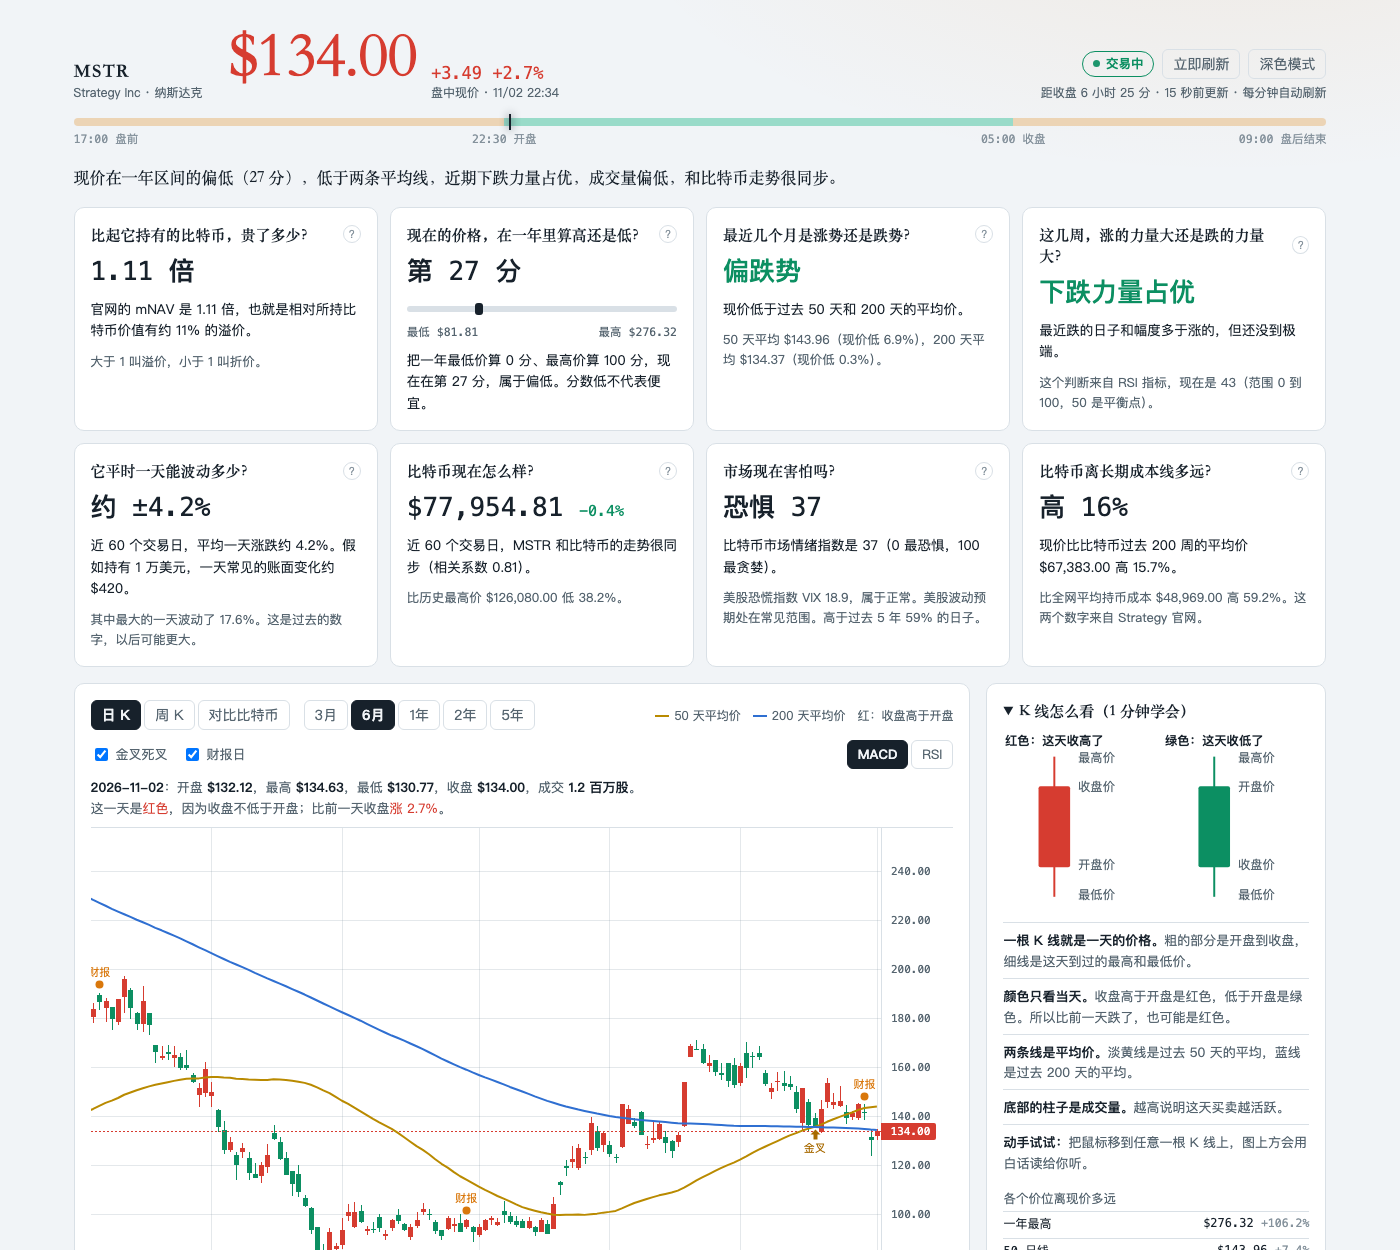
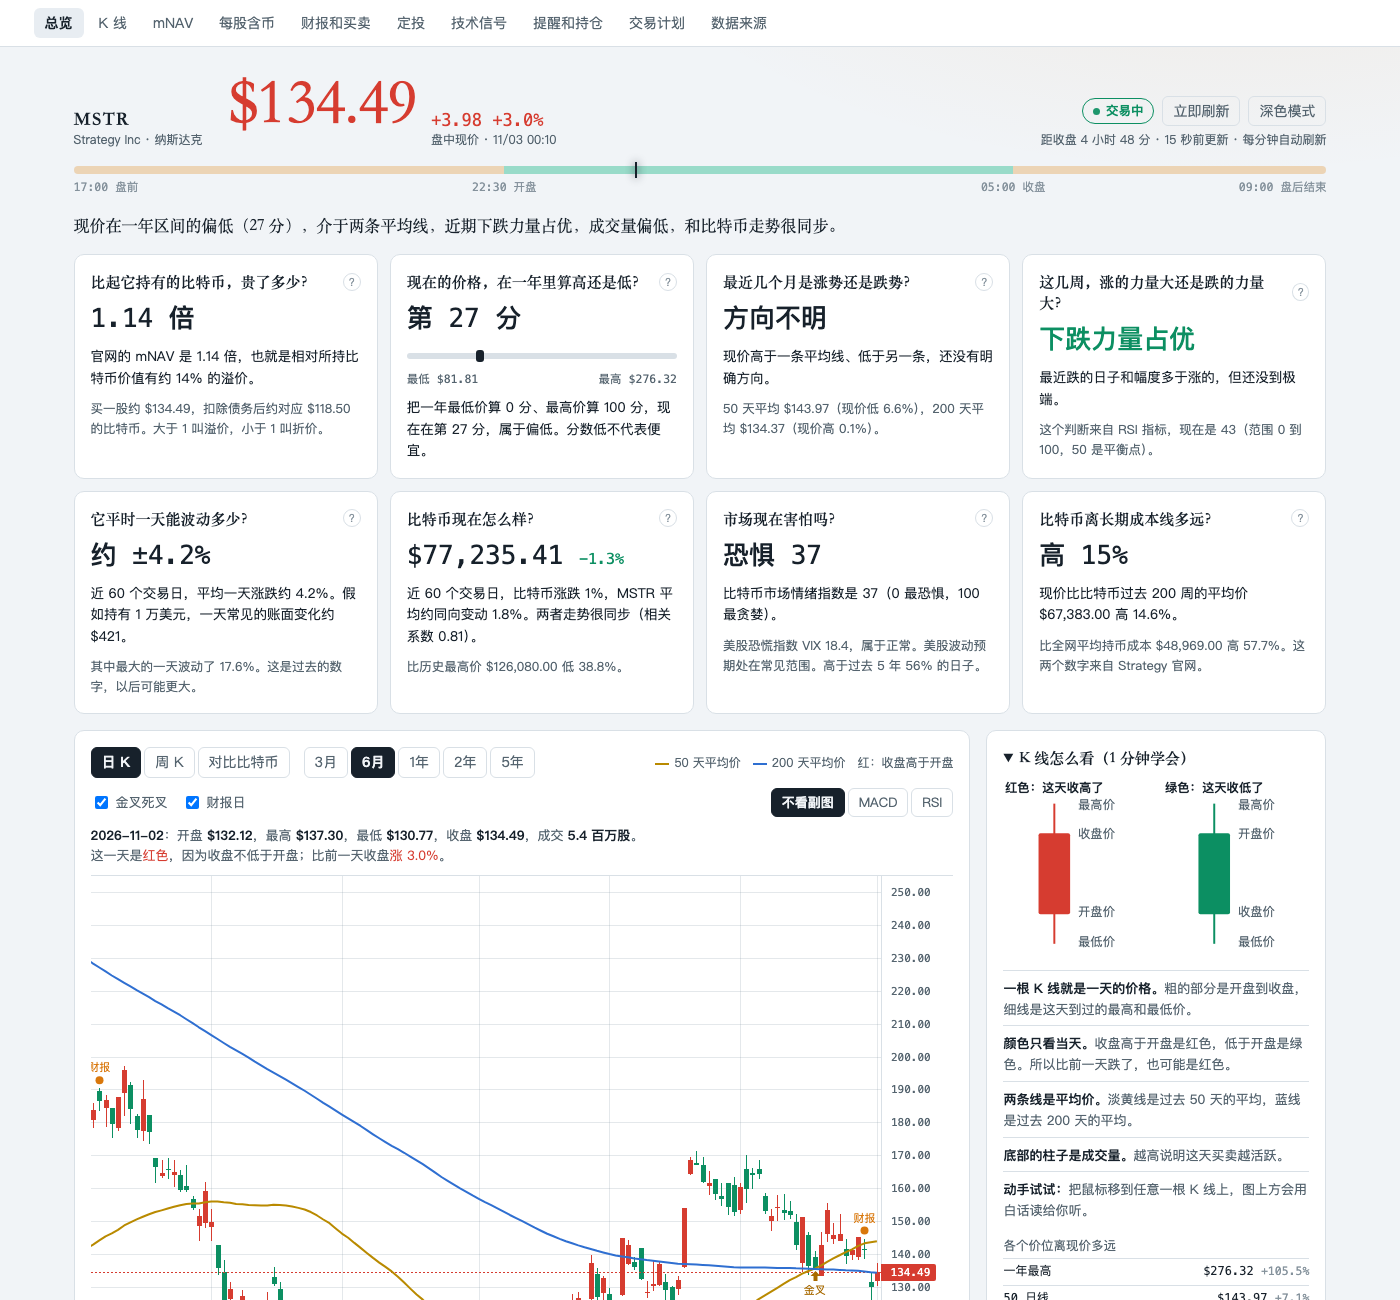
修正 mNAV 说明，加入每股含币量走势并更新截图
- 按官网说明解释 mNAV，并标出 2026 年 7 月 23 日的定义变化
- 新增每股含币量走势，以及持币和股数的变化
- 更新 README 和页面截图

diff --git a/index.html b/index.html
@@ -110,7 +110,7 @@ h2 { font: 700 15px/1.3 var(--song); letter-spacing: .04em; margin: 0; }
 .dca-top { display: flex; flex-wrap: wrap; align-items: center; gap: 8px 14px; }
 .dca-body { display: grid; grid-template-columns: 300px minmax(0, 1fr); gap: 18px; align-items: start; }
 @media (max-width: 880px) { .dca-body { grid-template-columns: minmax(0, 1fr); } }
-#dcaChart, #mnavChart { height: 280px; }
+#dcaChart, #mnavChart, #psChart { height: 280px; }
 .two { display: grid; grid-template-columns: repeat(2, minmax(0, 1fr)); gap: 16px; }
 @media (max-width: 880px) { .two { grid-template-columns: minmax(0, 1fr); } }
 .next { padding: 8px 12px; font-size: 13.5px; background: var(--panel-2); border-radius: 6px; }
@@ -339,6 +339,18 @@ footer { font-size: 12px; color: var(--faint); }
       <div><div class="legend" id="mnavLegend" style="margin:0 0 6px"></div><div id="mnavChart"></div></div>
     </div>
     <p class="hint" id="mnavNote"></p>
+  </section>
+
+  <section class="panel card">
+    <div class="head"><h2 style="color:var(--fg)">每股含币量的走势</h2><button class="q" data-term="pershare" type="button" aria-label="解释每股含币量">?</button></div>
+    <div class="dca-body">
+      <div class="card">
+        <div class="v" id="psNow">--</div><p class="say note" id="psSay">正在读取官网历史数据…</p>
+        <dl class="facts" id="psFacts"></dl>
+      </div>
+      <div><div class="legend" style="margin:0 0 6px"><span><i style="background:var(--btc)"></i>每股对应的比特币（枚）</span></div><div id="psChart"></div></div>
+    </div>
+    <p class="hint">根据 Strategy 官网的每股持币数（BPS）。“股数”用持币数 ÷ 每股持币数换算，是官网口径的调整后股数，和普通股总数不同。这里没有扣除债务。持币和增发的日期可能错开，所以会有台阶式变化。</p>
   </section>
 
   <div class="two">
@@ -787,7 +799,7 @@ function renderQuestions(d) {
   $('qBtcT').textContent = corr;
   const k = S.kpi?.btc;
   $('qBtcS').textContent = k ? `比历史最高价 ${money(k.ath)} 低 ${Math.abs(k.drawdownFromAth).toFixed(1)}%。` : '';
-  renderMood(); renderDca(); renderHistory(); renderEvents();
+  renderMood(); renderDca(); renderHistory(); renderPerShare(); renderEvents();
 
   $('sentence').textContent = `现价在一年区间的${d.pos}（${d.place.toFixed(0)} 分），${both ? '高于' : none ? '低于' : '介于'}两条平均线，近期${fw}，${d.volWord}，和比特币${d.c >= 0.6 ? '走势很同步' : d.c >= 0.3 ? '有一定同步' : '不太同步'}。`;
   renderCompany();
@@ -874,14 +886,15 @@ function renderHistory() {
   const pick = f => { const s = summarize(rows, f); return s && { ...s, field: f }; };
   if (H.mode === 'official') {
     mnavMain.setData(series('mNav')); mnavSecond.setData(series('mNavEntVal'));
-    $('mnavLegend').innerHTML = `<span><i style="background:var(--btc)"></i>现行官网 mNAV（2026 年 6 月起）</span><span><i style="background:var(--ma-long)"></i>企业价值 ÷ 持币价值（2025 年起）</span>`;
+    mnavMain.setMarkers(series('mNav').some(p => p.time === '2026-07-23') ? [{ time: '2026-07-23', position: 'aboveBar', shape: 'arrowDown', color: css('--fg'), text: '官网改定义' }] : []);
+    $('mnavLegend').innerHTML = `<span><i style="background:var(--btc)"></i>现行算法（2026 年 6 月起）</span><span><i style="background:var(--ma-long)"></i>旧算法：企业价值 ÷ 持币价值（2025 年起）</span>`;
     const a = pick('mNav'), b = pick('mNavEntVal'), live = toNum(S.kpi?.btc?.mNav);
     $('mnavNow').textContent = (live > 0 ? live : all.find(r => r.mNav != null).mNav).toFixed(2) + ' 倍';
-    $('mnavSay').textContent = b ? `官网 mNAV 现在的数字。另一条企业价值算法现在是 ${b.now.toFixed(2)} 倍，高于这段时间 ${b.share.toFixed(0)}% 的日子。` : '官网 mNAV 现在的数字。';
-    $('mnavFacts').innerHTML = (a ? stat('官网', a) : '') + (b ? stat('企业价值', b) : '');
-    $('mnavNote').textContent = '两条线都来自 Strategy 官网，但算法不同，不能直接相减。橙线大致是“股价 ÷ 每股净持币价值”，从 2026 年 6 月 15 日才有数据；蓝线是“企业价值 ÷ 持币价值”，能看到更早的走势。虚线是 1 倍，低于它表示折价。';
+    $('mnavSay').textContent = b ? `官网现行算法的数字。旧算法现在约 ${b.now.toFixed(2)} 倍，高于这段时间 ${b.share.toFixed(0)}% 的日子。` : '官网现行算法的数字。';
+    $('mnavFacts').innerHTML = (a ? stat('现行算法', a) : '') + (b ? stat('旧算法', b) : '');
+    $('mnavNote').textContent = 'Strategy 官网说明：2026 年 7 月 23 日之前的 mNAV 是另一种指标，不能和现在直接比较。橙线是现行算法（股价 ÷ 每股净持币价值），官网数据从 2026 年 6 月 15 日开始，在 7 月 23 日没有明显跳变，看起来已按新算法回算，但官网没有明确写这一点。蓝线接近旧算法（企业价值 ÷ 持币价值），能看到更早的走势。两条线不能相减。虚线是 1 倍，低于它表示折价。';
   } else {
-    mnavMain.setData(series('simple')); mnavSecond.setData([]);
+    mnavMain.setData(series('simple')); mnavSecond.setData([]); mnavMain.setMarkers([]);
     $('mnavLegend').innerHTML = `<span><i style="background:var(--btc)"></i>市值 ÷ 持币价值（我根据官网数据算的）</span>`;
     const a = pick('simple');
     $('mnavNow').textContent = a ? f2(a.now) : '--';
@@ -900,6 +913,21 @@ const segHist = (id, attr, apply) => $(id).addEventListener('click', e => {
 });
 segHist('mnavMode', 'mode', v => { H.mode = v; });
 segHist('mnavRange', 'm', v => { H.months = Number(v); });
+
+// --- Bitcoin per share ---
+const psChart = LightweightCharts.createChart($('psChart'), { ...baseOptions(), layout: { ...baseOptions().layout, attributionLogo: false }, rightPriceScale: { borderColor: css('--line'), minimumWidth: 72 }, localization: { dateFormat: 'yyyy-MM-dd', locale: 'zh-CN', priceFormatter: v => v.toFixed(5) } });
+const psLine = psChart.addLineSeries({ lineWidth: 2, color: css('--btc'), priceLineVisible: false });
+let psKey = null;
+function renderPerShare() {
+  const h = S.history && perShareHistory(S.history); if (!h) return;
+  const n = v => v.toFixed(5) + ' 枚', sign = v => pct(v), row = (a, b) => `<div><dt>${a}</dt><dd>${b}</dd></div>`, m = v => (v / 1e8).toFixed(2) + ' 亿';
+  $('psNow').textContent = n(h.now.perShare);
+  const down = h.fromPeak < 0;
+  $('psSay').textContent = `从 ${dateCn(h.peak.date)} 的高点到现在，公司持币 ${sign(h.btcFromPeak)}，股数 ${sign(h.sharesFromPeak)}，所以每股含币量 ${sign(h.fromPeak)}。${down ? '股数增加得比持币快，就会这样。' : ''}`;
+  $('psFacts').innerHTML = row('最高', `${n(h.peak.perShare)}（${dateCn(h.peak.date)}）`) + row(`${dateCn(h.first.date)} 时`, n(h.first.perShare)) + row('那之后每股含币量', sign(h.perShareChange)) + row('那之后公司持币', sign(h.btcChange)) + row('那之后股数', `${sign(h.sharesChange)}（${m(h.first.shares)} → ${m(h.now.shares)}）`);
+  const key = h.asc.length + ':' + h.now.date;
+  if (key !== psKey) { psLine.setData(h.asc.map(x => ({ time: x.date, value: x.perShare }))); psChart.timeScale().fitContent(); psKey = key; }
+}
 
 // --- Earnings dates and holdings changes ---
 function renderEvents() {
@@ -1125,13 +1153,14 @@ const TERMS = {
   ma: '平均价就是过去一段时间每天收盘价的平均数。现价高于平均价，说明比这段时间的平均水平强；低于就是弱。50 天看几个月，200 天看一年左右。图上那两条线就是它们，专业叫法是“均线”。',
   vola: '这是把最近每天涨跌的幅度取平均。数字越大，账面上下越剧烈。MSTR 的波动通常比普通股票和比特币都大，持有前要想清楚自己能不能接受。',
   fear: '恐慌指标衡量的是大家的情绪。比特币情绪指数看币圈，0 最恐惧，100 最贪婪，数字由 Strategy 官网提供。VIX 看美股未来一个月的预期波动，大跌时往往飙升。恐慌时不一定是底部，恐慌可能持续很久甚至加深，所以它只能说明气氛，不能预测涨跌。',
+  pershare: '公司持有的比特币除以股数，就是每一股对应多少比特币。公司买币会让它上升，增发股票会让它下降。所以只看“公司持币越来越多”不够，要看每股对应的有没有变多。如果增发时股价有足够溢价，增发后每股含币量也可能上升；下降也不一定代表公司变差，比如筹到的钱可能用在别处。这里没有扣除债务，所以不是净值。',
   cost: '200 周平均价是比特币过去约 4 年的平均价，常被当作长期趋势线。全网平均持币成本（realized price）是所有比特币最后一次转移时价格的平均值，可以粗略理解为大家的平均成本。价格曾跌破过这两条线，它们不是不会被跌破的底部。',
   dca: '定投就是不管涨跌，每月投固定金额。价格低时买到的多，价格高时买到的少。定投均价是总投入除以买到的数量，也就是你平均花多少钱买到一股或一枚。这里只是用历史价格算账。定投能摊平买入价格，但不能保证赚钱，标的长期下跌时一样会亏。',
   rsi: '衡量最近 14 根 K 线上涨和下跌的相对力度，范围 0 到 100。日线看 14 天，周线看 14 周。常用 70 和 30 作为参考线，强势股可能长期停在高位，不能单独用来判断买卖。',
   cross: '短期均线上穿长期均线叫金叉，下穿叫死叉。均线是过去价格的平均，所以交叉总是滞后的，价格来回震荡时还会反复出现。',
   vol: '成交量是一天内成交的股数。放大说明这天比平时更活跃，常常伴随重要消息，但不能说明方向。',
   corr: '第一个数字是过去 60 个交易日的平均变动倍数，专业叫 Beta。比如 1.5 表示比特币涨 1% 时，MSTR 平均约涨 1.5%，跌的时候也一样。这是平均值，单日可能差很多，这个倍数也会随时间变化。相关系数看的是两者同步的程度，1 表示完全同向。',
-  mnav: 'MSTR 这家公司的主要资产是比特币。mNAV 就是看这份比特币被市场卖得贵还是便宜。现行算法大致是：股价 ÷ 每股对应的净持币价值（已扣除债务）。比如 1.10 倍，大致相当于花 1.10 美元买到价值 1 美元的比特币。大于 1 叫溢价，小于 1 叫折价。数字直接取自 Strategy 官网。官网页面上我没有查到完整公式，这个算法说法来自第三方开源项目，我用官网的盘前数字核对过是吻合的。',
+  mnav: 'MSTR 的主要资产是比特币。mNAV 看的是股价比每股实际对应的比特币贵多少。按 Strategy 官网现在的说明：分子是股价，分母是每股对应的比特币美元价值，并且已扣除债务、优先股等优先权益（再加回公司持有的美元资产）。比如 1.10 倍，大致相当于花 1.10 美元买到净值 1 美元的比特币。大于 1 叫溢价，小于 1 叫折价。官网特别说明：它不等于传统意义上的净资产价值，而且 2026 年 7 月 23 日之前 mNAV 指的是另一种指标，前后不能直接比较。',
 };
 document.addEventListener('click', e => {
   const btn = e.target.closest('.q'); if (!btn) return;
@@ -1293,7 +1322,7 @@ function renderSources() {
 }
 
 // --- Top navigation ---
-const NAV = [['总览', '.qs'], ['K 线', '.main'], ['mNAV', '#mnavChart'], ['财报和买卖', '#earnTable'], ['定投', '#dcaChart'], ['固定规则', '#exitSection'], ['技术信号', '#reviewBox'], ['提醒和持仓', '.bottom'], ['交易计划', '#planWhy'], ['数据来源', '#sourceBox']];
+const NAV = [['总览', '.qs'], ['K 线', '.main'], ['mNAV', '#mnavChart'], ['每股含币', '#psChart'], ['财报和买卖', '#earnTable'], ['定投', '#dcaChart'], ['技术信号', '#reviewBox'], ['提醒和持仓', '.bottom'], ['交易计划', '#planWhy'], ['数据来源', '#sourceBox']];
 function buildNav() {
   const spots = NAV.map(([name, sel]) => {
     const el = document.querySelector(sel), box = el && (el.closest('.qs, .main, .bottom, .two, section') || el);

diff --git a/calc.js b/calc.js
@@ -181,6 +181,14 @@ function planCheckup(plan, dailyMovePct, price) { // 只检查计划写全没有
   return out;
 }
 
+function perShareHistory(rows) { // rows 从新到旧；每股含币量和隐含股数都由官网的 satsPerShare 换算
+  const asc = rows.filter(r => r.satsPerShare > 0 && r.btcHoldings > 0).map(r => ({ date: r.date, perShare: r.satsPerShare / 1e8, btc: r.btcHoldings, shares: r.btcHoldings / (r.satsPerShare / 1e8) })).reverse();
+  if (!asc.length) return null;
+  const first = asc[0], now = asc.at(-1), peak = asc.reduce((a, b) => b.perShare > a.perShare ? b : a);
+  const change = (a, b) => (b / a - 1) * 100;
+  return { asc, first, now, peak, fromPeak: change(peak.perShare, now.perShare), perShareChange: change(first.perShare, now.perShare), btcChange: change(first.btc, now.btc), sharesChange: change(first.shares, now.shares), sharesFromPeak: change(peak.shares, now.shares), btcFromPeak: change(peak.btc, now.btc) };
+}
+
 if (typeof module !== 'undefined') {
-  module.exports = { sma, rsiSeries, rsi, ema, macd, crossings, correlation, beta, toWeekly, sessionOf, extendedQuote, dcaSim, summarize, closesBelowAverage, evalRule, backtestRule, maxDrawdown, isDownside, planCheckup };
+  module.exports = { sma, rsiSeries, rsi, ema, macd, crossings, correlation, beta, toWeekly, sessionOf, extendedQuote, dcaSim, summarize, closesBelowAverage, evalRule, backtestRule, maxDrawdown, isDownside, planCheckup, perShareHistory };
 }

diff --git a/tests/calc.test.js b/tests/calc.test.js
@@ -177,3 +177,23 @@ test('planCheckup：能指出缺什么，也能发现太近的价格规则', () 
   const tight = calc.planCheckup({ rules: [{ type: 'priceBelow', value: 95, note: 'x' }] }, 4, 100);
   assert.equal(tight.at(-1).ok, false);
 });
+
+test('perShareHistory：持币和股数都变时，算对每股含币量和变化', () => {
+  const r = calc.perShareHistory([
+    { date: 'c', satsPerShare: 150000, btcHoldings: 300 },
+    { date: 'x', satsPerShare: null, btcHoldings: 300 },
+    { date: 'b', satsPerShare: 200000, btcHoldings: 200 },
+    { date: 'a', satsPerShare: 100000, btcHoldings: 100 },
+  ]);
+  assert.equal(r.asc.length, 3);
+  close(r.now.perShare, 0.0015);
+  close(r.first.shares, 100000);
+  close(r.now.shares, 200000);
+  close(r.perShareChange, 50);
+  close(r.btcChange, 200);
+  close(r.sharesChange, 100);
+  assert.equal(r.peak.date, 'b');
+  close(r.fromPeak, -25);
+  close(r.sharesFromPeak, 100);
+  assert.equal(calc.perShareHistory([{ date: 'a', btcHoldings: 1 }]), null);
+});

diff --git a/tests/test_server.py b/tests/test_server.py
@@ -12,11 +12,12 @@ class DataShapes(unittest.TestCase):
     def test_history_keeps_only_mstr_fields(self):
         data = [
             {"ticker": "AAPL", "values": [{"date": "2026-10-30T00:00:00", "price": 1}]},
-            {"ticker": "MSTR", "values": [{"date": "2026-10-30T00:00:00", "price": 130.5, "mNav": 1.11, "extra": 9}]},
+            {"ticker": "MSTR", "values": [{"date": "2026-10-30T00:00:00", "price": 130.5, "mNav": 1.11, "satsPerShare": 187000, "extra": 9}]},
         ]
         rows = server.history_rows(data)
         self.assertEqual(rows[0]["date"], "2026-10-30")
         self.assertEqual(rows[0]["mNav"], 1.11)
+        self.assertEqual(rows[0]["satsPerShare"], 187000)
         self.assertIsNone(rows[0]["btcNav"])
         self.assertNotIn("extra", rows[0])
 

diff --git a/server.py b/server.py
@@ -99,7 +99,7 @@ def cached_json(url, ttl, transform=None, headers=()):
 def history_rows(data):
     """官网时间序列有 13MB、包含几十个标的，这里只留 MSTR 需要的字段。"""
     rows = next(item["values"] for item in data if item["ticker"] == "MSTR")
-    keep = ("mNav", "mNavEntVal", "marketCap", "btcNav", "btcHoldings", "price")
+    keep = ("mNav", "mNavEntVal", "marketCap", "btcNav", "btcHoldings", "price", "satsPerShare")
     return [{"date": row["date"][:10], **{k: row.get(k) for k in keep}} for row in rows]
 
 

diff --git a/README.md b/README.md
@@ -13,6 +13,7 @@
 | 现在的价格算高还是低？ | 把一年最低价算 0 分、最高价算 100 分，看现在多少分 |
 | 最近是涨势还是跌势？ | 直接告诉你“偏涨势”或“偏跌势”，并说明原因 |
 | 比起它持有的比特币，贵了多少？ | 显示 mNAV，还能看它过去的走势线 |
+| 公司增发后，每股还对应多少比特币？ | 显示每股含币量的走势，以及持币和股数各变了多少 |
 | 平时一天能波动多少？ | 例如持有 1 万美元，一天常见的账面变化有多大 |
 | 市场现在害怕吗？ | 显示比特币情绪指数和美股恐慌指数 VIX |
 | 我看不懂 K 线怎么办？ | 页面带图解，鼠标移到 K 线上还会用白话读出来 |
@@ -92,7 +93,8 @@ sh build-mac-app.sh
 | **K 线** | 用一根“蜡烛”表示一天的开盘、收盘、最高和最低价 |
 | **红色 / 绿色** | 这里是中国习惯：收盘高于开盘是红色，低于开盘是绿色 |
 | **均线** | 过去一段时间的平均价格，比如 50 日均线就是过去 50 天的平均价 |
-| **mNAV** | 公司价值和所持比特币价值的比值，大于 1 叫溢价，小于 1 叫折价 |
+| **mNAV** | 股价比每股净持币价值贵多少，大于 1 叫溢价，小于 1 叫折价。官网在 2026 年 7 月 23 日改过定义，前后不能直接比 |
+| **每股含币量** | 每一股对应多少比特币。买币会让它上升，增发会让它下降 |
 | **RSI** | 衡量最近涨跌力量的指标，范围 0 到 100 |
 | **金叉 / 死叉** | 短期均线上穿长期均线叫金叉，下穿叫死叉。它们总是滞后的 |
 | **VIX** | 美股恐慌指数，数字越高，代表市场预期波动越大 |
